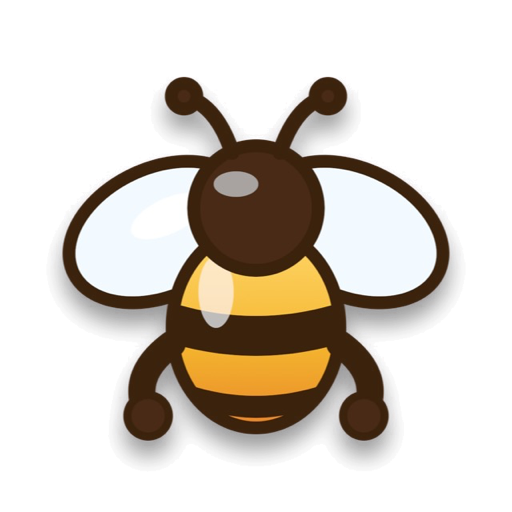
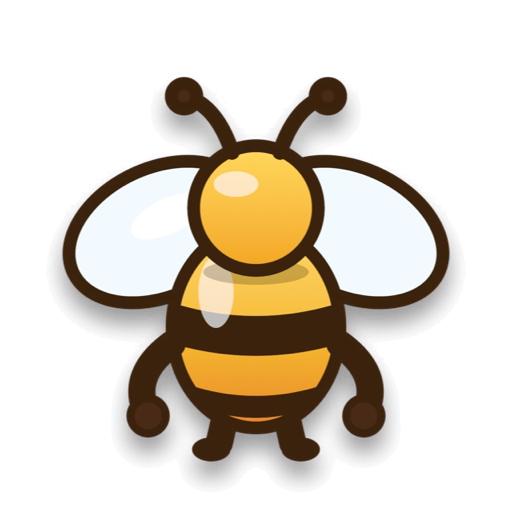
Petek Kervanı: sayfa güncel oyuna uyarlandı (yeni mekanikler, ekran görüntüleri, yeni ikon ve maskot)

diff --git a/petek-kervani/index.html b/petek-kervani/index.html
@@ -1,6 +1,6 @@
 <!doctype html>
 <html lang="tr"><head><meta charset="utf-8"><meta name="viewport" content="width=device-width,initial-scale=1">
-<title>Petek Kervanı: Arı Bulmacası</title><meta name="description" content="Petek Kervanı: arıların renkli kareleri piksel resimden söküp kovana taşıdığı bal, arı ve petek temalı bir bulmaca. iPhone ve iPad.">
+<title>Petek Kervanı: Arı Bulmacası</title><meta name="description" content="Petek Kervanı: arıların resmin kenarında dolaşıp renkli kareleri kovana taşıdığı bir kutu ve arı bulmacası. Çevrimdışı, reklamsız. iPhone ve iPad.">
 <link rel="canonical" href="https://fermanakgun.github.io/proje-tanitim/petek-kervani/">
 <link rel="alternate" hreflang="tr" href="https://fermanakgun.github.io/proje-tanitim/petek-kervani/"><link rel="alternate" hreflang="en" href="https://fermanakgun.github.io/proje-tanitim/petek-kervani/en.html"><link rel="alternate" hreflang="x-default" href="https://fermanakgun.github.io/proje-tanitim/petek-kervani/">
 <meta property="og:type" content="website"><meta property="og:site_name" content="Petek Kervanı: Arı Bulmacası"><meta property="og:title" content="Petek Kervanı: Arı Bulmacası"><meta property="og:description" content="Arılar renkli kareleri piksel resimden söküp kovana taşıyor.">
@@ -31,6 +31,7 @@ section{padding:34px 0}section h2{font-size:clamp(1.5rem,4.5vw,2rem);margin-bott
 .links{display:flex;gap:10px 22px;flex-wrap:wrap;padding:0;list-style:none;font-weight:700}
 .lead{font-size:1.2rem;font-weight:700}.note{color:var(--muted)}
 footer{background:var(--brown);color:var(--cream);padding:26px 0;margin-top:20px;font-size:.95rem}footer a{color:var(--honey-l)}
+.shots{display:flex;gap:14px;overflow-x:auto;padding:6px 2px 14px;scroll-snap-type:x proximity}.shots a{flex:0 0 auto;scroll-snap-align:start}.shots img{height:420px;width:auto;max-width:none;border-radius:18px;border:2px solid var(--line);display:block;background:#fff}.mascot{float:right;width:110px;height:auto;margin:0 0 8px 14px}h3{font-size:1.2rem;margin:18px 0 6px}@media (max-width:560px){.shots img{height:340px}.mascot{width:84px}}
 </style>
 <link rel="stylesheet" href="../assets/site.css"></head><body>
 <header class="top"><div class="wrap"><a class="brand" href="#top"><img src="assets/icon-512.png" alt=""><span>Petek Kervanı: Arı Bulmacası</span></a>
@@ -39,8 +40,9 @@ footer{background:var(--brown);color:var(--cream);padding:26px 0;margin-top:20px
 <main id="top">
 <div class="hero"><div class="wrap"><img class="logo" src="assets/logo-tr.png" width="1200" height="750" alt="Petek Kervanı: Arı Bulmacası">
 <p class="tag">Arılar renkli kareleri piksel resimden söküp kovana taşıyor.</p><span class="badge">Yakında App Store'da</span></div></div>
-<section id="about"><div class="wrap"><h2>Hakkında</h2><div class="card"><p class="lead">Petek Kervanı, arıların renkli kareleri bir piksel resimden söküp kovana taşıdığı bal, arı ve petek temalı bir bulmacadır.</p><p class="note">Oyun şu an geliştirme aşamasındadır ve henüz App Store'da değildir.</p>
-<h2 style="font-size:1.3rem;margin-top:22px">Öne çıkanlar</h2><ul class="feat"><li>Bal, arı ve petek temalı, piksel resim bulmacası</li><li>iPhone ve iPad için</li><li>Türkçe ve İngilizce</li><li>Tamamen çevrimdışı: internet gerekmez</li><li>Reklam yok, uygulama içi satın alma yok, hesap yok</li></ul></div></div></section>
+<section id="about"><div class="wrap"><h2>Hakkında</h2><div class="card"><img class="mascot" src="assets/bee-mascot.png" width="110" height="110" alt="Petek Kervanı arı maskotu"><p class="lead">Petek Kervanı, bir piksel resmi arılarla dıştan içe söken bir bulmacadır. Kutu ızgarasından bir kutu seç, fırlatma yuvasına girsin; kutudaki arılar resmin kenarında dolaşıp kendi renklerindeki kareleri kovana taşısın.</p><p class="note">Oyun şu an geliştirme aşamasındadır ve henüz App Store'da değildir.</p>
+<h2 style="font-size:1.3rem;margin-top:22px">Öne çıkanlar</h2><ul class="feat"><li>Kutu ızgarası ve 5 fırlatma yuvası: sırayı sen seçersin; yuvalar dolup hamle kalmazsa oyun kilitlenir</li><li>Arılar resmin kenarında dolaşır, yalnız dışa açık kareleri alır: resim dıştan içe soyulur</li><li>Bağlı, anahtar-kilitli ve gizli kutular her bölümü farklı kılar</li><li>Jokerler: Ek Yuva, İki Kutu, Geri Çağır, Değiştir; jokersiz kazanırsan Saf Bal rozeti</li><li>Tek sonsuz yol: 30 el yapımı bölümle başlar ve sınırsız sürer; zorlanırsan oyun otomatik kolaylaşır</li><li>Bal Kavanozu: ilerledikçe dolar, joker teklifleri reklamsızdır</li><li>iPhone ve iPad, Türkçe ve İngilizce</li><li>Tamamen çevrimdışı, reklam yok, uygulama içi satın alma yok, hesap yok, kişisel veri toplanmaz</li></ul></div></div></section>
+<section id="shots"><div class="wrap"><h2>Ekran görüntüleri</h2><div class="shots" data-lightbox><a href="assets/shots/menu.png"><img src="assets/shots/menu.png" width="294" height="640" loading="lazy" alt="Petek Kervanı ana menü"></a><a href="assets/shots/harita.png"><img src="assets/shots/harita.png" width="294" height="640" loading="lazy" alt="Sınırsız bölüm haritası"></a><a href="assets/shots/oynanis.png"><img src="assets/shots/oynanis.png" width="295" height="640" loading="lazy" alt="Oynanış: arılar resmin kenarında kare taşır"></a><a href="assets/shots/kavanoz.png"><img src="assets/shots/kavanoz.png" width="294" height="640" loading="lazy" alt="Bal Kavanozu: bölüm başı joker teklifi"></a><a href="assets/shots/ipad.png"><img src="assets/shots/ipad.png" width="289" height="420" loading="lazy" alt="Petek Kervanı iPad oynanışı"></a><a href="assets/shots/kazanma-rozeti.png"><img src="assets/shots/kazanma-rozeti.png" width="900" height="209" loading="lazy" alt="Kazanma rozeti" style="height:auto;width:min(900px,80vw)"></a></div><p class="note">Ekran görüntüleri Türkçe arayüzden.</p></div></section>
 <section id="links"><div class="wrap"><h2>Bağlantılar</h2><ul class="links"><li><a href="https://fermanakgun.github.io/petek-kervani-destek/">Gizlilik ve destek</a></li><li><a href="en.html" hreflang="en">Comb Couriers: Hive Puzzle</a></li><li><a href="../">Tüm projeler</a></li></ul></div></section>
 </main>
 <footer><div class="wrap"><div class="ps-foot" data-ps-footer><p class="ps-foot-t">Tüm projeler</p><ul><li><a href="../">Tüm projeler</a></li></ul></div><p>Basın ve görüşme talepleri için e-posta gönderin. <a href="mailto:fermanakgun@gmail.com">fermanakgun@gmail.com</a></p><p>&copy; 2026 Ferman Akgün</p></div></footer>

diff --git a/petek-kervani/en.html b/petek-kervani/en.html
@@ -1,6 +1,6 @@
 <!doctype html>
 <html lang="en"><head><meta charset="utf-8"><meta name="viewport" content="width=device-width,initial-scale=1">
-<title>Comb Couriers: Hive Puzzle</title><meta name="description" content="Comb Couriers: a honey, bee and honeycomb themed puzzle where bees pry coloured squares from a pixel picture and carry them to the hive. iPhone and iPad.">
+<title>Comb Couriers: Hive Puzzle</title><meta name="description" content="Comb Couriers: a box-and-bee puzzle where bees circle the edge of a pixel picture and carry coloured squares to the hive. Offline, no ads. iPhone and iPad.">
 <link rel="canonical" href="https://fermanakgun.github.io/proje-tanitim/petek-kervani/en.html">
 <link rel="alternate" hreflang="tr" href="https://fermanakgun.github.io/proje-tanitim/petek-kervani/"><link rel="alternate" hreflang="en" href="https://fermanakgun.github.io/proje-tanitim/petek-kervani/en.html"><link rel="alternate" hreflang="x-default" href="https://fermanakgun.github.io/proje-tanitim/petek-kervani/">
 <meta property="og:type" content="website"><meta property="og:site_name" content="Comb Couriers: Hive Puzzle"><meta property="og:title" content="Comb Couriers: Hive Puzzle"><meta property="og:description" content="Bees pry coloured squares from a pixel picture and carry them to the hive.">
@@ -31,6 +31,7 @@ section{padding:34px 0}section h2{font-size:clamp(1.5rem,4.5vw,2rem);margin-bott
 .links{display:flex;gap:10px 22px;flex-wrap:wrap;padding:0;list-style:none;font-weight:700}
 .lead{font-size:1.2rem;font-weight:700}.note{color:var(--muted)}
 footer{background:var(--brown);color:var(--cream);padding:26px 0;margin-top:20px;font-size:.95rem}footer a{color:var(--honey-l)}
+.shots{display:flex;gap:14px;overflow-x:auto;padding:6px 2px 14px;scroll-snap-type:x proximity}.shots a{flex:0 0 auto;scroll-snap-align:start}.shots img{height:420px;width:auto;max-width:none;border-radius:18px;border:2px solid var(--line);display:block;background:#fff}.mascot{float:right;width:110px;height:auto;margin:0 0 8px 14px}h3{font-size:1.2rem;margin:18px 0 6px}@media (max-width:560px){.shots img{height:340px}.mascot{width:84px}}
 </style>
 <link rel="stylesheet" href="../assets/site.css"></head><body>
 <header class="top"><div class="wrap"><a class="brand" href="#top"><img src="assets/icon-512.png" alt=""><span>Comb Couriers: Hive Puzzle</span></a>
@@ -39,8 +40,9 @@ footer{background:var(--brown);color:var(--cream);padding:26px 0;margin-top:20px
 <main id="top">
 <div class="hero"><div class="wrap"><img class="logo" src="assets/logo-en.png" width="1200" height="750" alt="Comb Couriers: Hive Puzzle">
 <p class="tag">Bees pry coloured squares from a pixel picture and carry them to the hive.</p><span class="badge">Coming soon to the App Store</span></div></div>
-<section id="about"><div class="wrap"><h2>About</h2><div class="card"><p class="lead">Comb Couriers is a honey, bee and honeycomb themed puzzle in which bees pry coloured squares from a pixel picture and carry them to the hive.</p><p class="note">The game is currently in development and is not on the App Store yet.</p>
-<h2 style="font-size:1.3rem;margin-top:22px">Highlights</h2><ul class="feat"><li>A honey, bee and honeycomb pixel-picture puzzle</li><li>For iPhone and iPad</li><li>Turkish and English</li><li>Fully offline: no internet needed</li><li>No ads, no in-app purchases, no account</li></ul></div></div></section>
+<section id="about"><div class="wrap"><h2>About</h2><div class="card"><img class="mascot" src="assets/bee-mascot.png" width="110" height="110" alt="Comb Couriers bee mascot"><p class="lead">Comb Couriers is a puzzle where bees peel a pixel picture from the outside in. Pick a box from the box grid and it slides into a launch pad; its bees circle the edge of the picture and carry squares of their own colour to the hive.</p><p class="note">The game is currently in development and is not on the App Store yet.</p>
+<h2 style="font-size:1.3rem;margin-top:22px">Highlights</h2><ul class="feat"><li>A box grid and 5 launch pads: you choose the order; if every pad is stuck and no move is left, you are locked</li><li>Bees circle the edge of the picture and take only squares open to the outside: it peels from the outside in</li><li>Linked, key-and-lock and hidden boxes keep every level fresh</li><li>Jokers: Extra Pad, Two Boxes, Recall, Swap; win without jokers to earn the Pure Honey badge</li><li>One endless path: it starts with 30 handcrafted levels and never ends; if you struggle, the game gently eases up</li><li>Honey Jar: it fills as you progress, and joker offers are ad-free</li><li>iPhone and iPad, Turkish and English</li><li>Fully offline, no ads, no in-app purchases, no account, no personal data collected</li></ul></div></div></section>
+<section id="shots"><div class="wrap"><h2>Screenshots</h2><div class="shots" data-lightbox><a href="assets/shots/menu.png"><img src="assets/shots/menu.png" width="294" height="640" loading="lazy" alt="Comb Couriers main menu"></a><a href="assets/shots/harita.png"><img src="assets/shots/harita.png" width="294" height="640" loading="lazy" alt="Endless level map"></a><a href="assets/shots/oynanis.png"><img src="assets/shots/oynanis.png" width="295" height="640" loading="lazy" alt="Gameplay: bees carry squares around the picture edge"></a><a href="assets/shots/kavanoz.png"><img src="assets/shots/kavanoz.png" width="294" height="640" loading="lazy" alt="Honey Jar: joker offer before a level"></a><a href="assets/shots/ipad.png"><img src="assets/shots/ipad.png" width="289" height="420" loading="lazy" alt="Comb Couriers on iPad"></a><a href="assets/shots/kazanma-rozeti.png"><img src="assets/shots/kazanma-rozeti.png" width="900" height="209" loading="lazy" alt="Win badge" style="height:auto;width:min(900px,80vw)"></a></div><p class="note">Screenshots show the Turkish interface; an English set is coming.</p></div></section>
 <section id="links"><div class="wrap"><h2>Links</h2><ul class="links"><li><a href="https://fermanakgun.github.io/petek-kervani-destek/en/">Privacy and support</a></li><li><a href="index.html" hreflang="tr">Petek Kervanı: Arı Bulmacası</a></li><li><a href="../en.html">All projects</a></li></ul></div></section>
 </main>
 <footer><div class="wrap"><div class="ps-foot" data-ps-footer><p class="ps-foot-t">All projects</p><ul><li><a href="../en.html">All projects</a></li></ul></div><p>For press and enquiries, send an email. <a href="mailto:fermanakgun@gmail.com">fermanakgun@gmail.com</a></p><p>&copy; 2026 Ferman Akgün</p></div></footer>
